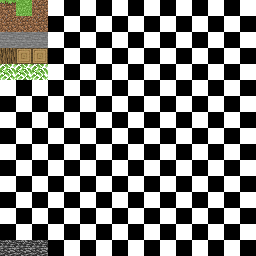
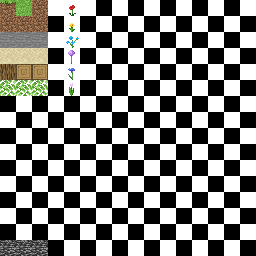
flowers everywhere

Changed region(s): [[0.0, 0.1875, 0.1875, 0.375], [0.25, 0.0938, 0.3125, 0.375], [0.25, 0.0, 0.3125, 0.0625]]

diff --git a/Sources/Chunk.cpp b/Sources/Chunk.cpp
@@ -34,63 +34,91 @@ Chunk::~Chunk( void )
 //                                Private                                     //
 // ************************************************************************** //
 
-GLfloat Chunk::get_empty_faces( int row, int col, int level ) // TODO adapt this to work with flowers and such
+// we simulate that flowers are air block in order to display adjacent blocks properly
+// also use this for all 'see-through' blocks like leaves, ..
+static int air_flower( int value )
+{
+	if (value > 16 || value == blocks::OAK_LEAVES) {
+		return (0);
+	}
+	return (value);
+}
+
+GLfloat Chunk::get_empty_faces( int row, int col, int level )
 {
 	GLfloat res = 0.0f;
-	res += !!_blocks[((row - 1) * (CHUNK_SIZE + 2) + col) * 256 + level] * (1 << 2);
-	res += !!_blocks[((row + 1) * (CHUNK_SIZE + 2) + col) * 256 + level] * (1 << 3);
-	res += !!_blocks[(row * (CHUNK_SIZE + 2) + col - 1) * 256 + level] * (1 << 0);
-	res += !!_blocks[(row * (CHUNK_SIZE + 2) + col + 1) * 256 + level] * (1 << 1);
+	res += !!air_flower(_blocks[((row - 1) * (CHUNK_SIZE + 2) + col) * 256 + level]) * (1 << 2);
+	res += !!air_flower(_blocks[((row + 1) * (CHUNK_SIZE + 2) + col) * 256 + level]) * (1 << 3);
+	res += !!air_flower(_blocks[(row * (CHUNK_SIZE + 2) + col - 1) * 256 + level]) * (1 << 0);
+	res += !!air_flower(_blocks[(row * (CHUNK_SIZE + 2) + col + 1) * 256 + level]) * (1 << 1);
 	switch (level) {
 		case 0:
 			res += (1 << 5);
-			res += !!_blocks[(row * (CHUNK_SIZE + 2) + col) * 256 + level + 1] * (1 << 4);
+			res += !!air_flower(_blocks[(row * (CHUNK_SIZE + 2) + col) * 256 + level + 1]) * (1 << 4);
 			break ;
 		case 255:
-			res += !!_blocks[(row * (CHUNK_SIZE + 2) + col) * 256 + level - 1] * (1 << 5);
+			res += !!air_flower(_blocks[(row * (CHUNK_SIZE + 2) + col) * 256 + level - 1]) * (1 << 5);
 			res += (1 << 4);
 			break ;
 		default:
-			res += !!_blocks[(row * (CHUNK_SIZE + 2) + col) * 256 + level - 1] * (1 << 5);
-			res += !!_blocks[(row * (CHUNK_SIZE + 2) + col) * 256 + level + 1] * (1 << 4);
+			res += !!air_flower(_blocks[(row * (CHUNK_SIZE + 2) + col) * 256 + level - 1]) * (1 << 5);
+			res += !!air_flower(_blocks[(row * (CHUNK_SIZE + 2) + col) * 256 + level + 1]) * (1 << 4);
 	}
 	return (res);
 }
 
 // takes a block and check if player can see it at some point
-bool Chunk::exposed_block( int row, int col, int level ) // TODO adapt this to work with flowers and such
+bool Chunk::exposed_block( int row, int col, int level )
 {
 	bool below = false;
 	bool above = false;
 	switch (level) {
 		case 0:
-			above = !_blocks[(row * (CHUNK_SIZE + 2) + col) * 256 + level + 1];
+			above = !air_flower(_blocks[(row * (CHUNK_SIZE + 2) + col) * 256 + level + 1]);
 			break ;
 		case 255:
-			below = !_blocks[(row * (CHUNK_SIZE + 2) + col) * 256 + level - 1];
+			below = !air_flower(_blocks[(row * (CHUNK_SIZE + 2) + col) * 256 + level - 1]);
 			break ;
 		default:
-			below = !_blocks[(row * (CHUNK_SIZE + 2) + col) * 256 + level - 1];
-			above = !_blocks[(row * (CHUNK_SIZE + 2) + col) * 256 + level + 1];
+			below = !air_flower(_blocks[(row * (CHUNK_SIZE + 2) + col) * 256 + level - 1]);
+			above = !air_flower(_blocks[(row * (CHUNK_SIZE + 2) + col) * 256 + level + 1]);
 	}
-	return (!_blocks[((row - 1) * (CHUNK_SIZE + 2) + col) * 256 + level]
-		|| !_blocks[((row + 1) * (CHUNK_SIZE + 2) + col) * 256 + level]
-		|| !_blocks[(row * (CHUNK_SIZE + 2) + col - 1) * 256 + level]
-		|| !_blocks[(row * (CHUNK_SIZE + 2) + col + 1) * 256 + level]
+	return (!air_flower(_blocks[((row - 1) * (CHUNK_SIZE + 2) + col) * 256 + level])
+		|| !air_flower(_blocks[((row + 1) * (CHUNK_SIZE + 2) + col) * 256 + level])
+		|| !air_flower(_blocks[(row * (CHUNK_SIZE + 2) + col - 1) * 256 + level])
+		|| !air_flower(_blocks[(row * (CHUNK_SIZE + 2) + col + 1) * 256 + level])
 		|| below || above);
 }
 
-static int get_block_type(int row, int col, int level, int surface_level, bool tree_gen, std::vector<glm::vec3> & trees)
+int Chunk::get_block_type(siv::PerlinNoise perlin, int row, int col, int level, int surface_level,
+	bool poppy, bool dandelion, bool blue_orchid, bool allium, bool cornflower, bool pink_tulip,
+	bool tree_gen, std::vector<glm::vec3> & trees)
 {
 	int value = (level <= surface_level);
 	if (value) {
 		if (level <= 64) {
-			value = blocks::STONE;
+			(perlin.noise2D_01((_startX - 1 + row) / 100.0f, (_startY - 1 + col) / 100.0f) < 0.55)
+				? value = blocks::STONE
+				: value = blocks::SAND;
 		}
 	} else if (tree_gen && surface_level > 65 && surface_level < 220 && level <= surface_level + 5) {
 		value = blocks::OAK_TRUNK;
 		if (level == surface_level + 5) {
 			trees.push_back(glm::vec3(row, col, level));
+		}
+	} else if (surface_level > 65 && surface_level < 220 && level == surface_level + 1) {
+		if (poppy) {
+			value = blocks::POPPY;
+		} else if (dandelion) {
+			value = blocks::DANDELION;
+		} else if (blue_orchid) {
+			value = blocks::BLUE_ORCHID;
+		} else if (allium) {
+			value = blocks::ALLIUM;
+		} else if (cornflower) {
+			value = blocks::CORNFLOWER;
+		} else if (pink_tulip) {
+			value = blocks::PINK_TULIP;
 		}
 	}
 	if (level == 0) {
@@ -102,10 +130,10 @@ static int get_block_type(int row, int col, int level, int surface_level, bool t
 void Chunk::generate_blocks( void )
 {
 	const siv::PerlinNoise perlin{ perlin_seed };
-
-	std::minstd_rand0  generator(_startX * 19516 + _startY * 56849);
+	// std::minstd_rand0  generator(_startX * 19516 + _startY * 56849);
+	std::minstd_rand0  generator((_startX * 19511 + _startY * 56844) * perlin_seed);
 	std::uniform_int_distribution<int> distribution(0, 1000);
-	// std::bernoulli_distribution distribution(0.98f);
+
 	std::vector<glm::vec3> trees;
 
 	// generating base terrain
@@ -116,12 +144,18 @@ void Chunk::generate_blocks( void )
 			// int surface_level = glm::floor(SEA_LEVEL + (perlin.octave2D_01((_startX - 1 + row) / 100.0f, (_startY - 1 + col) / 100.0f, 4) - 0.5) * 50
 			// 			+ (perlin.noise2D_01((_startX - 1000 + row) / 1000.0f, (_startY - 1000 + col) / 1000.0f) - 0.5) * 200);
 			bool tree_gen = (distribution(generator) <= 2 && row > 2 && row < CHUNK_SIZE - 1 && col > 2 && col < CHUNK_SIZE - 1);
+			bool poppy = (distribution(generator) <= 2 && row > 1 && row < CHUNK_SIZE && col > 1 && col < CHUNK_SIZE);
+			bool dandelion = (distribution(generator) <= 2 && row > 1 && row < CHUNK_SIZE && col > 1 && col < CHUNK_SIZE);
+			bool blue_orchid = (distribution(generator) <= 2 && row > 1 && row < CHUNK_SIZE && col > 1 && col < CHUNK_SIZE);
+			bool allium = (distribution(generator) <= 2 && row > 1 && row < CHUNK_SIZE && col > 1 && col < CHUNK_SIZE);
+			bool cornflower = (distribution(generator) <= 2 && row > 1 && row < CHUNK_SIZE && col > 1 && col < CHUNK_SIZE);
+			bool pink_tulip = (distribution(generator) <= 2 && row > 1 && row < CHUNK_SIZE && col > 1 && col < CHUNK_SIZE);
 			for (int level = 0; level < 256; level++) {
 				// double cave = perlin.octave3D_01((_startX - 1000 + row) / 100.0f, (_startY - 1000 + col) / 100.0f, (level) / 20.0f, 4);
 				// (level < surface_level - 5 && cave <= 0.2f)
 				// 	? _blocks[(row * (CHUNK_SIZE + 2) + col) * 256 + level] = 0
 				// 	: _blocks[(row * (CHUNK_SIZE + 2) + col) * 256 + level] = (level <= surface_level);
-				_blocks[(row * (CHUNK_SIZE + 2) + col) * 256 + level] = get_block_type(row, col, level, surface_level, tree_gen, trees);;
+				_blocks[(row * (CHUNK_SIZE + 2) + col) * 256 + level] = get_block_type(perlin, row, col, level, surface_level, poppy, dandelion, blue_orchid, allium, cornflower, pink_tulip, tree_gen, trees);;
 				// GLfloat squashing_factor;
 				// (level < 64)
 				// 	? squashing_factor = (64 - level) / 64.0f
@@ -155,9 +189,11 @@ void Chunk::generate_blocks( void )
 				if (value) {
 					if (exposed_block(row, col, level)) {
 						_displayed_blocks++;
-						if (value == blocks::GRASS_BLOCK && level != 255
-							&& _blocks[(row * (CHUNK_SIZE + 2) + col) * 256 + level + 1]) {
-							_blocks[(row * (CHUNK_SIZE + 2) + col) * 256 + level] = blocks::GRASS_BLOCK_UNDER;
+						if (value == blocks::GRASS_BLOCK && level != 255) {
+							int block_above = _blocks[(row * (CHUNK_SIZE + 2) + col) * 256 + level + 1];
+							if (block_above && block_above < 17) {
+								_blocks[(row * (CHUNK_SIZE + 2) + col) * 256 + level] = blocks::GRASS_BLOCK_UNDER;
+							}
 						}
 					} else {
 						_blocks[(row * (CHUNK_SIZE + 2) + col) * 256 + level] = blocks::NOTVISIBLE;

diff --git a/Sources/OpenGL_Manager.cpp b/Sources/OpenGL_Manager.cpp
@@ -91,7 +91,6 @@ void OpenGL_Manager::setup_window( void )
 	glewInit();
 	
 	glEnable(GL_DEPTH_TEST);
-	glPointSize(10);
 	glfwSwapInterval(1);
 
 	check_glstate("Window successfully created");
@@ -176,17 +175,16 @@ void OpenGL_Manager::load_texture( std::string texture_file )
 
 	// load image
 	t_tex *texture = new t_tex;
-	texture->content = SOIL_load_image(texture_file.c_str(), &texture->width, &texture->height, 0, SOIL_LOAD_RGB);
+	texture->content = SOIL_load_image(texture_file.c_str(), &texture->width, &texture->height, 0, SOIL_LOAD_RGBA);
 	if (!texture->content) {
 		std::cerr << "failed to load image " << texture_file << " because:" << std::endl << SOIL_last_result() << std::endl;
 		exit(1);
 	}
 
 	// load image as texture
-	glTexImage2D(GL_TEXTURE_2D, 0, GL_RGB, texture->width, texture->height,
-		0, GL_RGB, GL_UNSIGNED_BYTE, texture->content);
+	glTexImage2D(GL_TEXTURE_2D, 0, GL_RGBA, texture->width, texture->height,
+		0, GL_RGBA, GL_UNSIGNED_BYTE, texture->content);
 
-	// std::string tex_str = "tex" + std::to_string(index);
 	glUniform1i(glGetUniformLocation(_shaderProgram, "tex0"), 0); // sampler2D #index in fragment shader
 			
 	// set settings for texture wraping and size modif

diff --git a/Includes/Chunk.hpp b/Includes/Chunk.hpp
@@ -14,9 +14,9 @@ enum blocks {
 	GRASS_BLOCK,
 	GRASS_BLOCK_UNDER,
 	STONE,
+	SAND,
 	OAK_TRUNK,
 	OAK_LEAVES,
-	TBD6,
 	TBD7,
 	TBD8,
 	TBD9,
@@ -27,6 +27,12 @@ enum blocks {
 	TBD14,
 	TBD15,
 	BEDROCK,
+	POPPY,
+	DANDELION,
+	BLUE_ORCHID,
+	ALLIUM,
+	CORNFLOWER,
+	PINK_TULIP,
 	NOTVISIBLE = -1
 };
 
@@ -65,6 +71,9 @@ class Chunk
 
 		GLfloat get_empty_faces( int row, int col, int level );
 		bool exposed_block( int row, int col, int level );
+		int get_block_type(siv::PerlinNoise perlin, int row, int col, int level, int surface_level,
+			bool poppy, bool dandelion, bool blue_orchid, bool allium, bool cornflower, bool pink_tulip,
+			bool tree_gen, std::vector<glm::vec3> & trees);
 		void generate_blocks( void );
         void fill_vertex_array( void );
         void setup_array_buffer( void );

diff --git a/Includes/vox.h b/Includes/vox.h
@@ -29,9 +29,9 @@ extern std::mutex mtx_visible_chunks;
 
 # include "utils.h"
 # include "Camera.hpp"
+# include "PerlinNoise.hpp"
 # include "Chunk.hpp"
 # include "OpenGL_Manager.hpp"
-# include "PerlinNoise.hpp"
 
 extern const siv::PerlinNoise::seed_type perlin_seed;
 
